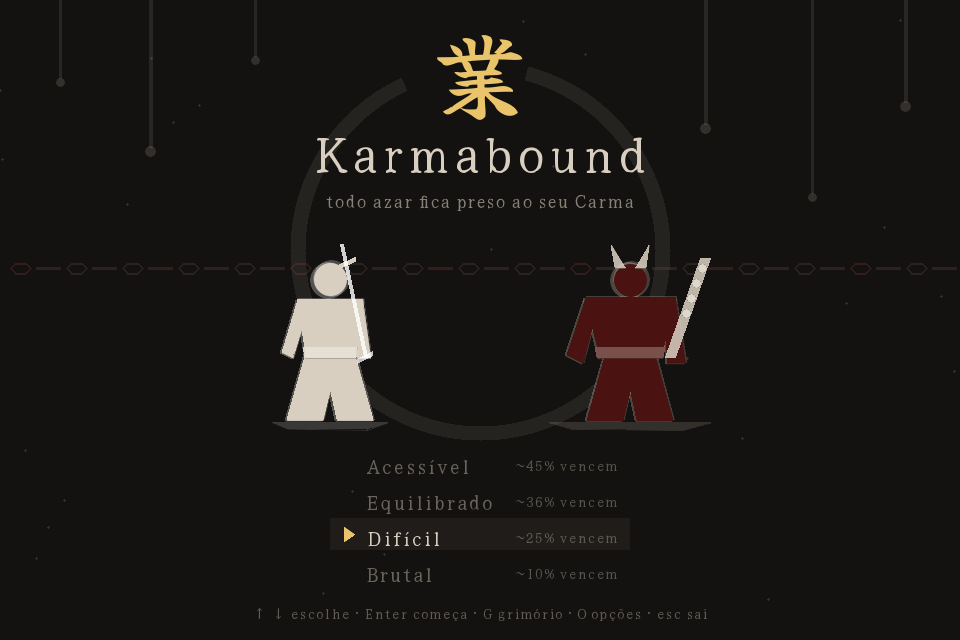
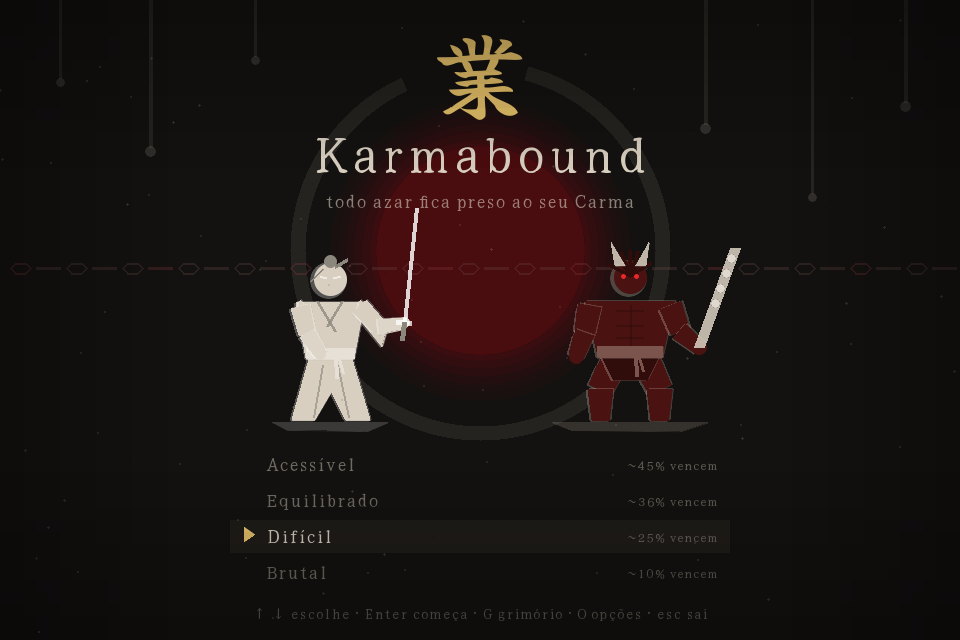
Recalibra com os Arcos novos e as técnicas de chefe
Técnicas de chefe e Arcos suavizados (Floresta da Morte com metade da cura, Torneio do Poder com chefe ×1,4, Lua Sem Fim 22, Guerreiro Esqueleto 14/6, Disparo Espiritual 14, Estrela que Prende 6, Mil Lâminas 5 golpes). Modos em +4,8 / +4,95 / +4,95 / +6,05 por luta: 43,5 / 35,0 / 24,1 / 10,8%. Documentação do visual novo.

diff --git a/docs/index.html b/docs/index.html
@@ -250,10 +250,10 @@
 <table>
   <thead><tr><th>Modo</th><th class="num">Vitória do piloto</th><th>Rivais</th><th class="num">Sua vida</th></tr></thead>
   <tbody>
-    <tr><td>Acessível</td><td class="num">~45%</td><td>12 + 5,25 por luta, chefe ×1,2</td><td class="num">80</td></tr>
-    <tr><td>Equilibrado</td><td class="num">~36%</td><td>12 + 5,5 por luta, chefe ×1,2</td><td class="num">76</td></tr>
-    <tr><td><strong>Difícil</strong> (padrão)</td><td class="num">~25%</td><td>12 + 5,55 por luta, chefe ×1,25</td><td class="num">70</td></tr>
-    <tr><td>Brutal</td><td class="num">~10%</td><td>12 + 6,7 por luta, chefe ×1,25</td><td class="num">68</td></tr>
+    <tr><td>Acessível</td><td class="num">~45%</td><td>12 + 4,8 por luta, chefe ×1,2</td><td class="num">80</td></tr>
+    <tr><td>Equilibrado</td><td class="num">~36%</td><td>12 + 4,95 por luta, chefe ×1,2</td><td class="num">76</td></tr>
+    <tr><td><strong>Difícil</strong> (padrão)</td><td class="num">~25%</td><td>12 + 4,95 por luta, chefe ×1,25</td><td class="num">70</td></tr>
+    <tr><td>Brutal</td><td class="num">~10%</td><td>12 + 6,05 por luta, chefe ×1,25</td><td class="num">68</td></tr>
   </tbody>
 </table>
 <p>O primeiro rival tem sempre 12 de vida: um modo fácil não deveria significar lutas vazias. O piloto é propositalmente simples — um jogador de verdade, lendo o rival, vence mais.</p>

diff --git a/tests/test_grimorio.py b/tests/test_grimorio.py
@@ -52,6 +52,7 @@ def ctx():
 def test_o_grimorio_lista_todas_as_habilidades_com_origem(ctx):
     por_roda = entradas(ctx)
     total = sum(len(v) for v in por_roda.values())
-    assert total == sum(len(r.fatias) for r in ctx.rodas.values()) + 1 + len(ctx.chefes)  # + o Golpe e os chefes
+    fatias = sum(len(r.fatias) for r in ctx.rodas.values())
+    assert total == fatias + 1 + len(ctx.chefes)  # + o Golpe e os chefes
     assert por_roda["tecnicas"][0].id == "golpe_basico"
     assert all(e.origem for v in por_roda.values() for e in v)

diff --git a/docs/DESIGN.md b/docs/DESIGN.md
@@ -179,6 +179,14 @@ Com combate real, o Carma enche **0,85–1,05 vez por run** em todos os modos: a
 - **Semente do dia**: Difícil, seed tirada da data (todo mundo gira a mesma sorte); o melhor resultado de cada dia fica em `recordes.json` e aparece no título e no fim da run.
 - A pausa não pede mais confirmação para voltar ao título: a run fica salva.
 
+### Visual de verdade e conteúdo novo (2026-11-02)
+
+- **Lutadores articulados** (`figuras.py`): juntas montadas de uma `Pose` (inclinação, agachamento, ombros, cotovelos, arma, cabeça); as poses se misturam (parado → guarda → ataque → golpe recebido) e o corpo respira. Por estilo: kimono e hakama com dobras, manto, juba, chifres, máscara de osso, músculos, vapor. O jogador é visto de costas (sem rosto).
+- **Arenas em camadas** (`arenas.py`): uma câmera que deriva desloca cada camada pela profundidade; brilhos de luz, névoa, primeiro plano nas bordas (na frente dos lutadores, longe da interface) e `abalo` nos golpes.
+- **Sombrio** (pedido de 2026-11-02): vinheta, grão de tinta, céu mais escuro, sangue que fica no chão, espadas fincadas e corvos.
+- **4 Arcos** (Torre Celestial: +1 de dano por vitória no capítulo; Floresta da Morte: sem cura, Relíquia a cada vitória; Hueco Mundo: Carma ×1,5 e rivais +1 de Percepção; Torneio do Poder: uma luta a menos, chefe ×1,6, vencê-lo guarda um Despertar) e **técnicas-assinatura dos chefes** (`data/chefes.json`).
+- Continuar uma run recarrega os dados atuais (`Contexto.padrao`): um ajuste de balanceamento vale também para a run salva.
+
 ### Ainda não implementado no combate
 
 - Percepção 3 (ver duas à frente) ainda não existe.
@@ -274,7 +282,7 @@ Todos dentro da régua (±2 de ruído) depois da segunda rodada de ajustes (2026
 - **Carma vale muito:** cheio, ele é um Despertar na luta e um Divino depois. Todo preço em Carma pesa demais — por isso o Instante custa vida (decisão de 2026-11-02), e o Julgamento precisa de um golpe enorme para compensar.
 - **Achados que eram defeito de regra, não de número:** o Instante gastava o turno e devolvia um (ganho zero) — agora são duas ações de verdade depois dele; o Coração Selado guardava só no giro (nada ganhava) — agora guarda no instante em que o Carma enche.
 - **Arquitetura:** as regras da run são passos em `run.py` (`aplicar_dom`, `aplicar_arco`, `comecar_luta`, `encerrar_luta`, `receber_tecnica`, `receber_reliquia`, `girar`). O piloto automático e a Jornada do jogador usam os mesmos passos: o simulador mede exatamente o jogo que se joga.
-- **Modos:** com Dons, Relíquias, Despertar e Divinos fortes, os rivais cresciam +5,8 / +6,1 / +6,2 / +7,5 de vida por luta. Com as homenagens (que os rivais também usam) e os ajustes do Contrato e do Instante, passaram a **+5,25 / +5,5 / +5,55 / +6,7** (com a força do Altar guardada entre votos). Resultado: **45,1% / 35,2% / 24,9% / 10,0%**, reação 26–31%.
+- **Modos:** com Dons, Relíquias, Despertar e Divinos fortes, os rivais cresciam +5,8 / +6,1 / +6,2 / +7,5 de vida por luta. Com as homenagens (que os rivais também usam) e os ajustes do Contrato e do Instante, passaram a +5,25 / +5,5 / +5,55 / +6,7 (com a força do Altar guardada entre votos) e, com os Arcos novos e as técnicas de chefe (já suavizadas: Floresta com metade da cura, Torneio do Poder com chefe ×1,4), a **+4,8 / +4,95 / +4,95 / +6,05**. Resultado: **43,5% / 35,0% / 24,1% / 10,8%**, reação 24–27%.
 
 ## Poderes impossíveis de balancear
 

diff --git a/README.md b/README.md
@@ -66,8 +66,9 @@ Na **primeira run**, cada sistema se explica uma vez, na primeira vez que aparec
 ### O visual
 
 - **Um efeito por habilidade**, em tinta: a esfera que gira do Rasengan, os raios do Hekireki Issen, a lua negra do Getsuga, as correntes do Kurapika, o Domínio que fecha a arena, o tempo parado em sépia, a tela que se parte no Corte do Mundo.
-- **Uma arena por Arco**: o Monte Myoboku, a arena do Torneio, o Eclipse, a vila em chamas, Shibuya sob o Véu e Marineford.
-- **Rivais variados**: Ronin, Monge Errante, Shinobi e Oni, e o chefe é um colosso de quatro braços.
+- **Lutadores articulados**: um esqueleto com poses (parado respirando, guarda, ataque, golpe recebido), roupa e rosto por estilo. Rivais: Ronin, Monge Errante, Shinobi, Oni, Hollow e Titã; o chefe é um colosso de quatro braços, com uma **técnica-assinatura** (Senbonzakura, Susanoo, Chibaku Tensei, Kamui, Mugetsu, Leigan).
+- **Arenas com profundidade**: camadas em parallax, luz, névoa, um primeiro plano na frente dos lutadores e a cena tremendo nos golpes. Dez Arcos, cada um com a sua (entre eles a Torre Celestial, a Floresta da Morte, Hueco Mundo e o Torneio do Poder).
+- **Sombrio**: vinheta, grão de tinta, o sangue dos golpes que fica no chão, espadas quebradas fincadas e corvos no céu.
 - **Uma aura por Despertar**, e cartas com moldura da raridade e a linha de origem.
 - **Cinema**: o rival entra numa pincelada de tinta com o nome em caligrafia (o chefe escurece a tela antes); na vitória ele se desfaz em tinta, na derrota as correntes se fecham sobre você; o título respira (ensō, corrente do Carma, tinta escorrendo); entre telas, a tinta cobre e recolhe.
 - **Som e música sintetizados em código** (`python tools/gerar_sons.py`): taiko, gongo, sinos, shamisen, koto, correntes e cortes, em escalas japonesas. Uma faixa para o título, a roleta, a luta e o chefe; a música da luta acelera quando o Carma enche.
@@ -113,10 +114,10 @@ Calibrados com um piloto automático simples em 12 lutas — um jogador de verda
 
 | Modo | Vitória (piloto) | Rivais | Sua vida |
 |---|---|---|---|
-| Acessível | ~45% | 12 + 5,25 por luta, chefe ×1,2 | 80 |
-| Equilibrado | ~36% | 12 + 5,5 por luta, chefe ×1,2 | 76 |
-| **Difícil** (padrão) | ~25% | 12 + 5,55 por luta, chefe ×1,25 | 70 |
-| Brutal | ~10% | 12 + 6,7 por luta, chefe ×1,25 | 68 |
+| Acessível | ~45% | 12 + 4,8 por luta, chefe ×1,2 | 80 |
+| Equilibrado | ~36% | 12 + 4,95 por luta, chefe ×1,2 | 76 |
+| **Difícil** (padrão) | ~25% | 12 + 4,95 por luta, chefe ×1,25 | 70 |
+| Brutal | ~10% | 12 + 6,05 por luta, chefe ×1,25 | 68 |
 
 ### Poderes com preço
 
